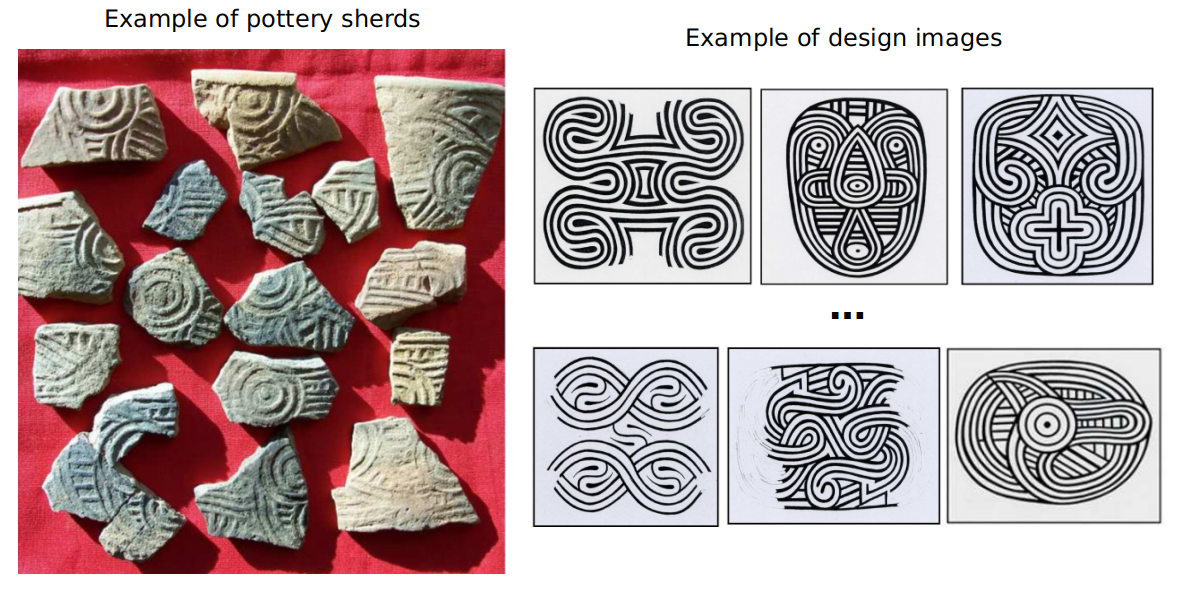
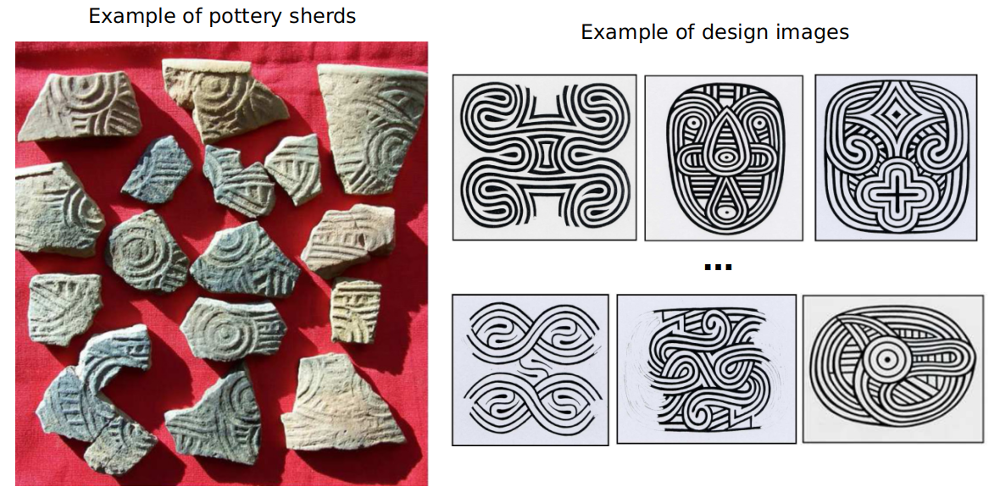
test

diff --git a/README.md b/README.md
@@ -1,11 +1,11 @@
 ## Introduction
 
 
-[SnowVision](https://github.com/rudylyh/SnowVision) is a project of exploring the application of deep learning and computer vision techniques in traditional archeological heritage fragment recognition. It is part of the World Engraved project (Our website: [http://worldengraved.org](http://worldengraved.org/index)).
+[SnowVision](https://github.com/rudylyh/SnowVision) is a project of exploring the application of deep learning and computer vision techniques in traditional archeological heritage fragment recognition. It is part of the World Engraved project ([http://worldengraved.org](http://worldengraved.org/index)).
 
 The aim of SnowVision is to automate the matching process between fragmentary stamped pottery sherds from the archaeological record and their appropriate complete paddle design from among the hundreds of registered design reconstructions in the corpus. Example images are shown below.
 
-![example images](data/eg_img.png)
+![example images | 500*500,80%](data/eg_img.png | width=100)
 
 Technically, our goal is to find the ground truth design of the query sherd in the design database and the corresponding location.
 ![example images](data/match_goal.png)
